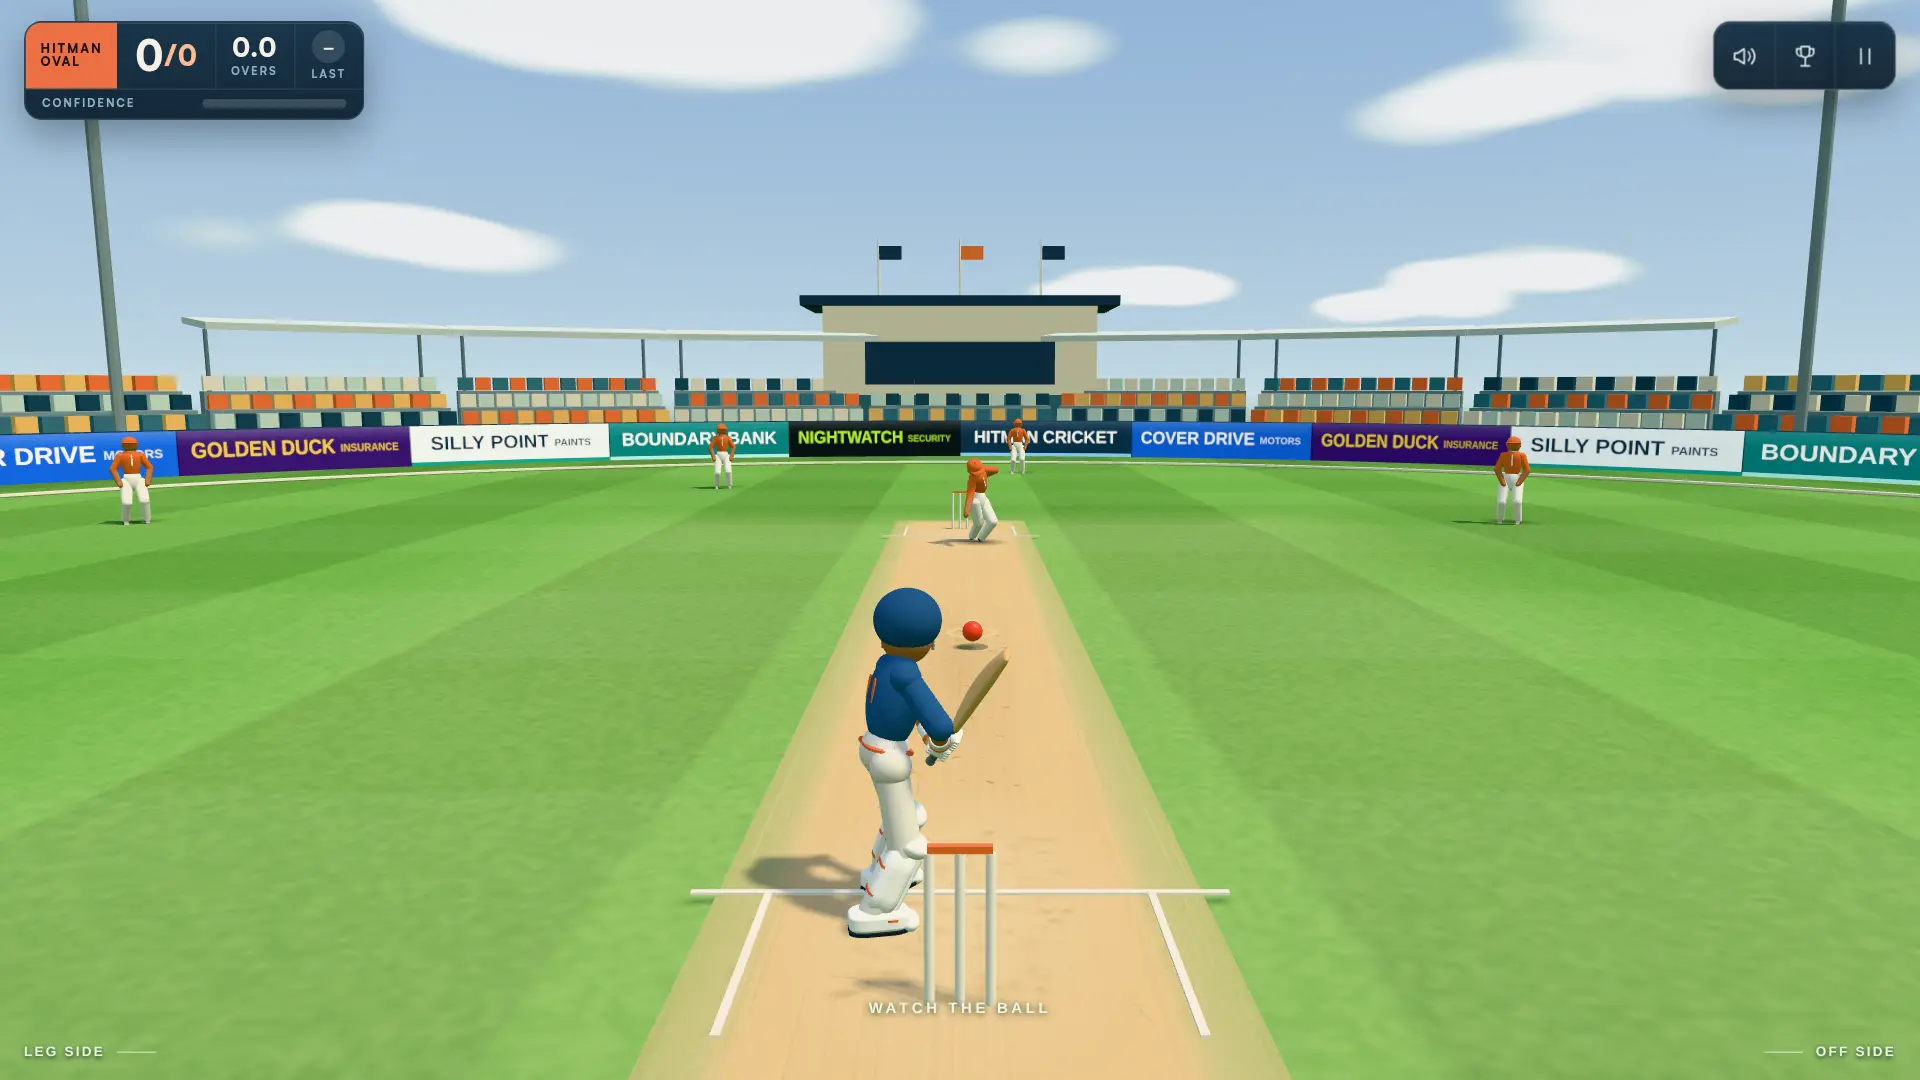
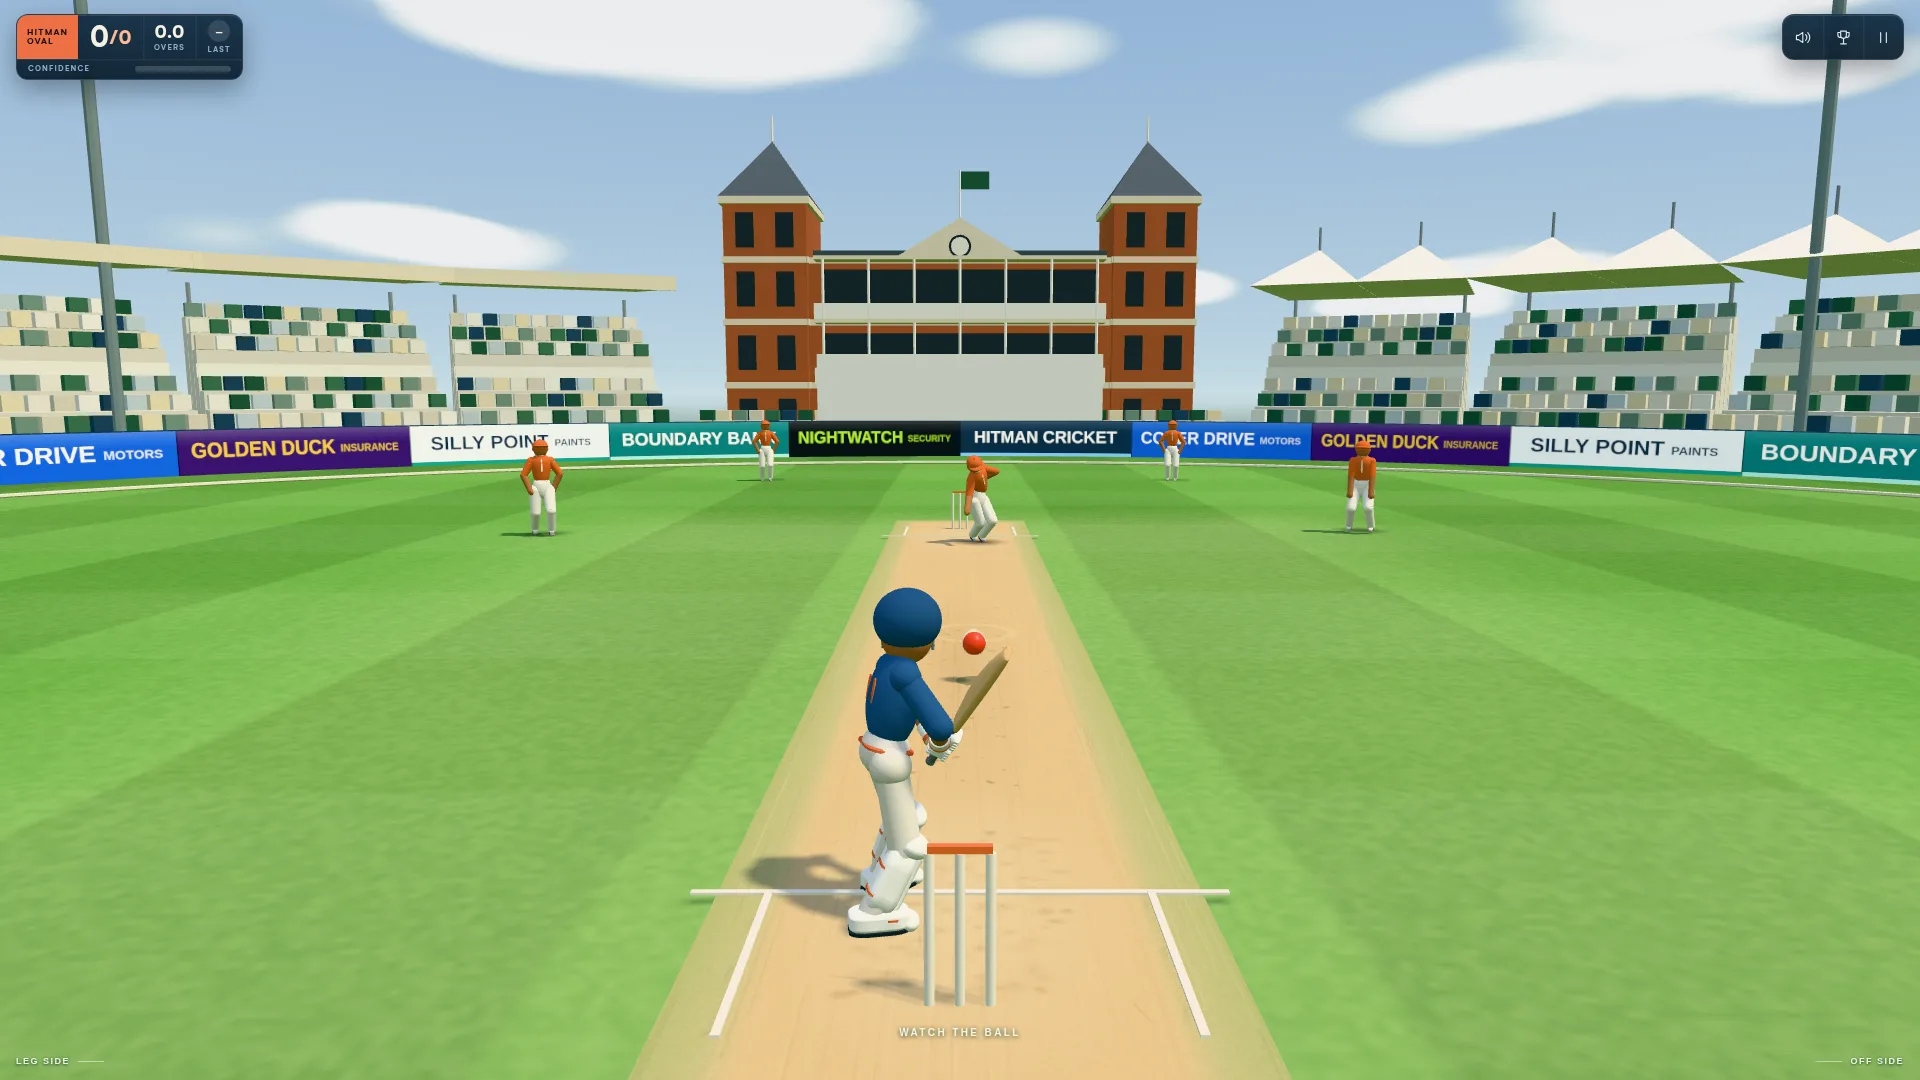
Retake the wide covers pair and reword the covers for the pavilion ground
Both wide photographs are now the same ball on the bowl and on the pavilion
ground, taken by scripts/unveil-shots.mjs like the phone pair. The covers'
eyebrow and both alt texts describe the pavilion and the stands rather than
the earlier sky-and-turf update, and the comments say where the pictures
come from.

Claude-Session: https://claude.ai/code/session_01SmXxKmR8fVfmsvWX4gt2Gm

diff --git a/src/ui/Unveil.ts b/src/ui/Unveil.ts
@@ -4,12 +4,12 @@ import { track } from '../game/analytics';
 /**
  * The covers coming off: the old ground over the new one, and a line to drag.
  *
- * Two photographs of the same ball — the same seed, the same moment in the
- * bowler's run-up, on the build before the update and the build after it — so
+ * Two photographs of the same ball — the same seed, the same moment in its
+ * flight, on the ground before and the ground after — so
  * the line moving across is the only thing that changes and every difference
  * under it is the update's. They are photographs rather than the live ground
- * because there is no old ground to render any more, and because two still
- * pictures cost nothing a frame on a phone that is about to bat.
+ * because two still pictures cost nothing a frame on a phone that is about to
+ * bat; `scripts/unveil-shots.mjs` takes them.
  *
  * A pair for a phone held upright and a pair for a wider screen, picked by the
  * browser, so each only ever downloads the two it shows. Imported rather than
@@ -41,11 +41,11 @@ export function unveilMarkup(): string {
   return `
     <div class="unveil is-loading" style="--at:${REST * 100}%">
       <div class="unveil-layer is-after">${shot('after',
-    'The ground now: a blue sky with cloud, striped turf, sponsors along the fence, and the score in one bar across the top.')}
+    'The ground now: a red-brick pavilion with two towers and its balconies behind the bowler, a white sightscreen, and white two-tier stands with tent roofs.')}
         <span class="unveil-tag">NEW GROUND</span>
       </div>
       <div class="unveil-layer is-before">${shot('before',
-    'The ground as it was: a flat sky, plain grass, orange fence boards, and the score in two boxes.')}
+    'The ground as it was: a low clubhouse with three flags behind the bowler, and one tier of stands in a ring under flat roofs.')}
         <span class="unveil-tag">OLD GROUND</span>
       </div>
       <div id="unveil-line" class="unveil-line" role="slider" tabindex="0"
@@ -56,7 +56,7 @@ export function unveilMarkup(): string {
       <div class="unveil-foot">
         <p class="unveil-nudge" aria-hidden="true">${LEFT}<span>Swipe to pull the covers off</span></p>
         <div class="unveil-done" aria-live="polite">
-          <p class="unveil-eyebrow">NEW SKY · NEW TURF · NEW KIT</p>
+          <p class="unveil-eyebrow">NEW PAVILION · NEW STANDS</p>
           <h2 class="unveil-title">Covers off. Play on.</h2>
           <button id="unveil-play" class="key-button unveil-key" type="button" tabindex="-1">PLAY</button>
         </div>

diff --git a/src/scene/grounds.ts b/src/scene/grounds.ts
@@ -15,7 +15,8 @@ import { Batch, box, colors, cylinder, mat } from './build';
  * **The bowl** is the ground before it: one tier of stands in a full ring, flat
  * roofs, and the low clubhouse with the flags. It is kept whole, line for line,
  * so it can be looked at again with `?ground=bowl` and stood beside the new
- * one, and so a later ground has two to be measured against.
+ * one, and because the covers need it: their before picture is the bowl,
+ * photographed on this build (`scripts/unveil-shots.mjs`).
  *
  * Both are laid out in the stage's own frame, which `GameScene` mirrors so the
  * leg side reads left: the bowler's end is +z, and both are symmetric enough

diff --git a/src/game/unveil.ts b/src/game/unveil.ts
@@ -1,8 +1,8 @@
 /**
  * The new ground, shown off once.
  *
- * The graphics update changed the sky, the turf, the boards, the kit and the
- * scoreboard, and a player who had batted on the old ground would otherwise
+ * The pavilion ground replaced the bowl — the clubhouse and its ring of
+ * stands — and a player who had batted on the old ground would otherwise
  * notice it as "something looks different" rather than as a thing done for
  * them. So the first innings chosen — any mode, from the picker, a link or a
  * Rivals room — puts the old ground up first, full screen, with a line down its
